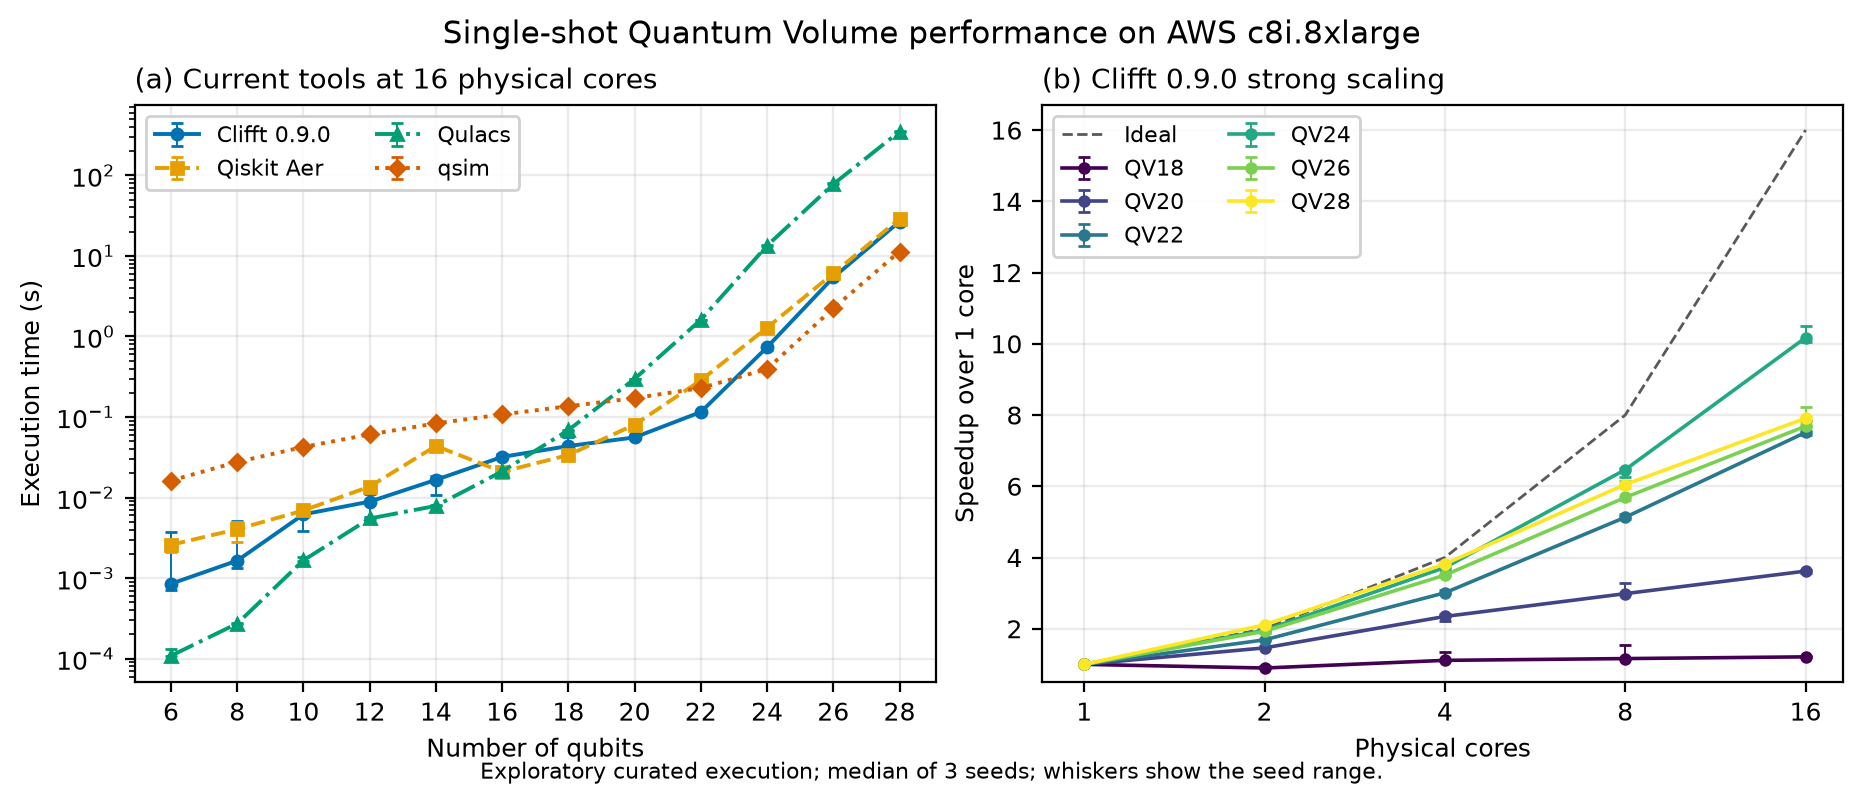
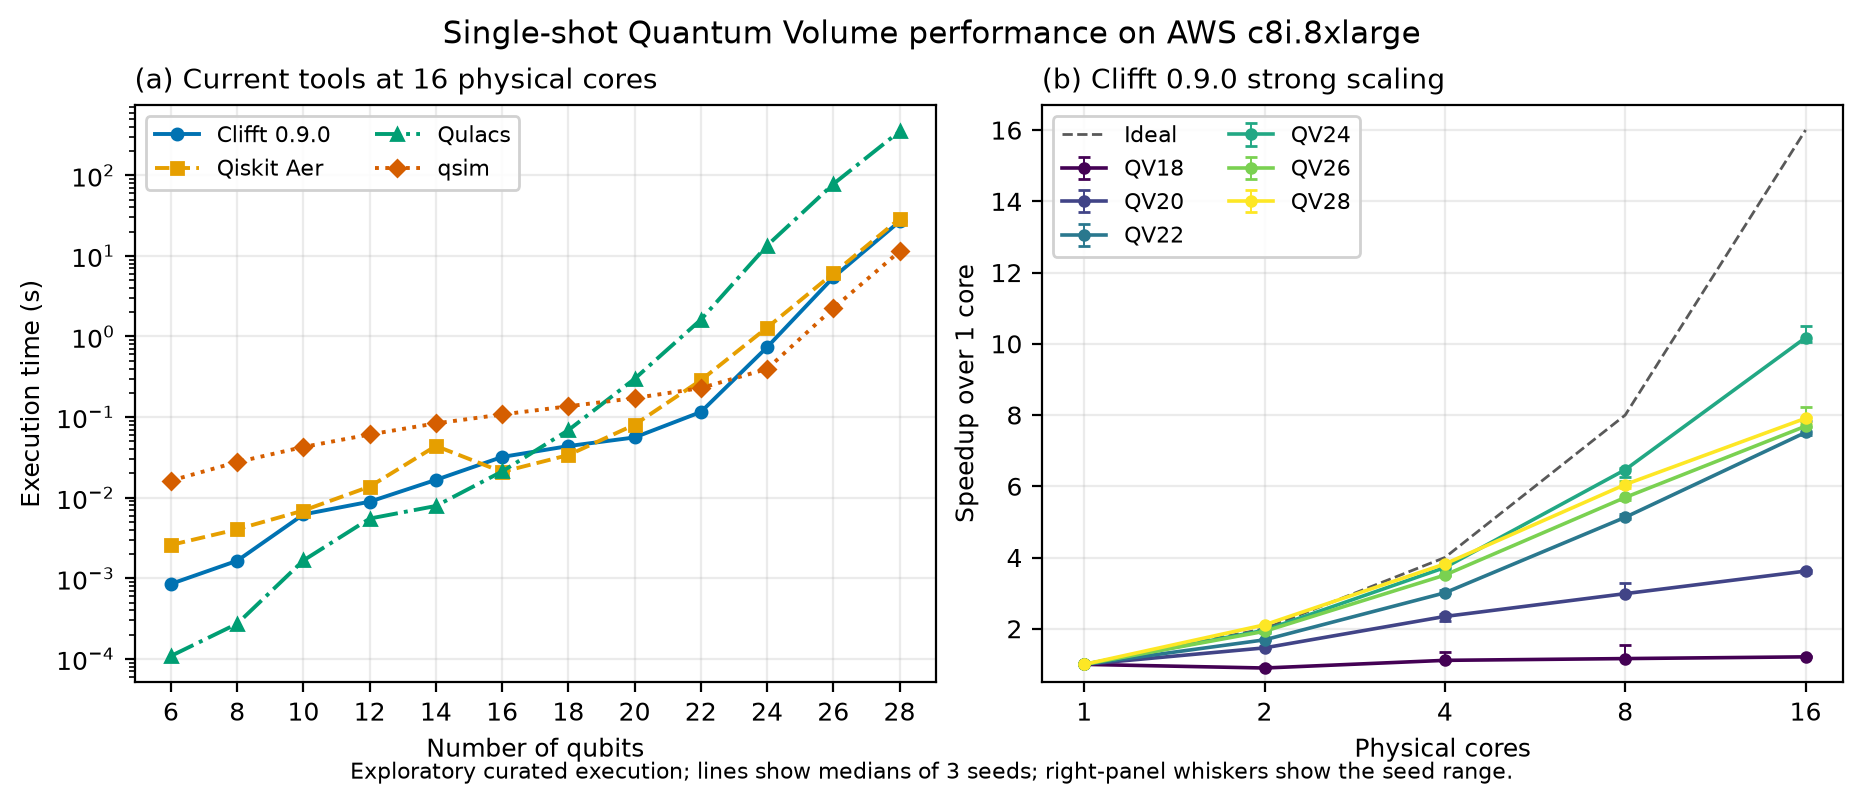
plot: show median-only QV tool latency

Changed region(s): [[0.1868, 0.9328, 0.8094, 0.995]]

diff --git a/scripts/plot_qv.py b/scripts/plot_qv.py
@@ -89,26 +89,21 @@ def _plot_current_tools(axis: Axes, rows: list[dict[str, str]]) -> None:
         points = []
         for candidate_run, qubits in sorted(grouped):
             if candidate_run == run_id:
-                median, minimum, maximum = _range_stats(grouped[(candidate_run, qubits)])
-                points.append((qubits, median, minimum, maximum))
+                median = statistics.median(grouped[(candidate_run, qubits)])
+                points.append((qubits, median))
         if not points:
             raise ValueError(f"missing current-tool results for {run_id}")
         x = [point[0] for point in points]
         y = [point[1] for point in points]
-        lower = [point[1] - point[2] for point in points]
-        upper = [point[3] - point[1] for point in points]
-        axis.errorbar(
+        axis.plot(
             x,
             y,
-            yerr=[lower, upper],
             color=str(style["color"]),
             label=str(style["label"]),
             linestyle=str(style["linestyle"]),
             marker=str(style["marker"]),
             linewidth=1.4,
             markersize=4,
-            capsize=2,
-            elinewidth=0.7,
         )
 
     axis.set_yscale("log")
@@ -191,7 +186,8 @@ def plot(input_path: Path, output_base: Path, *, write_pdf: bool = False) -> lis
     figure.text(
         0.5,
         -0.01,
-        "Exploratory curated execution; median of 3 seeds; whiskers show the seed range.",
+        "Exploratory curated execution; lines show medians of 3 seeds; right-panel whiskers "
+        "show the seed range.",
         ha="center",
         fontsize=8,
     )
